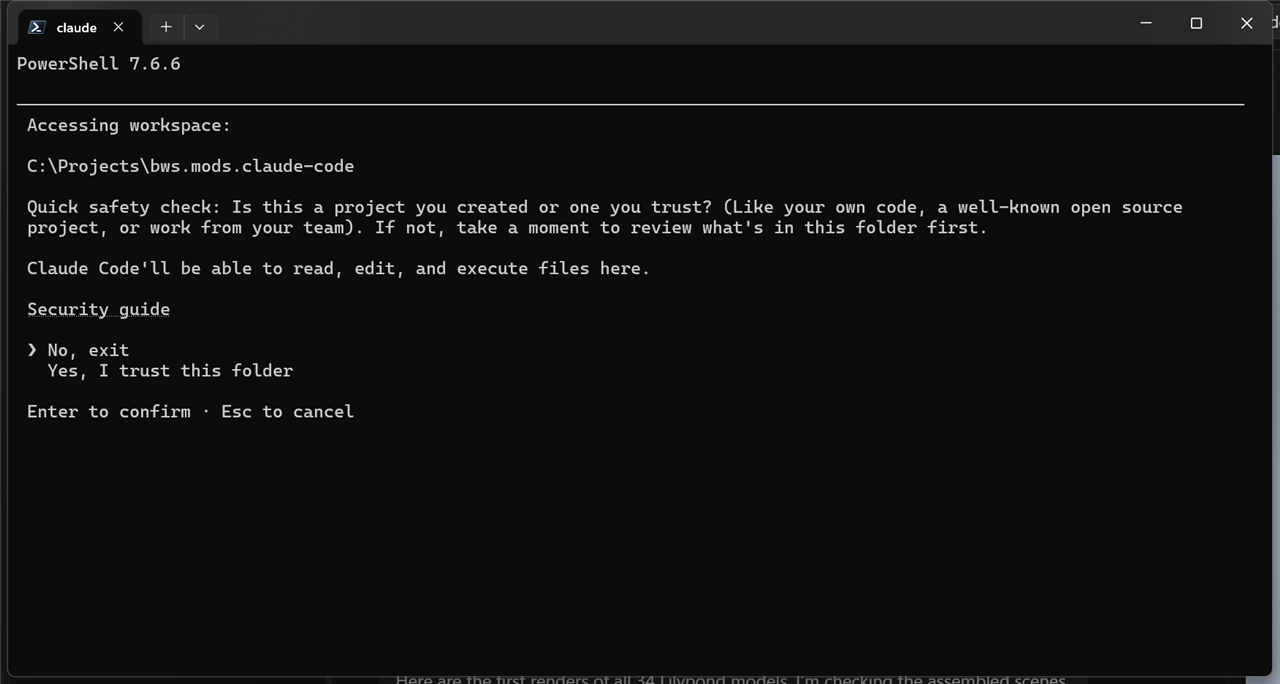
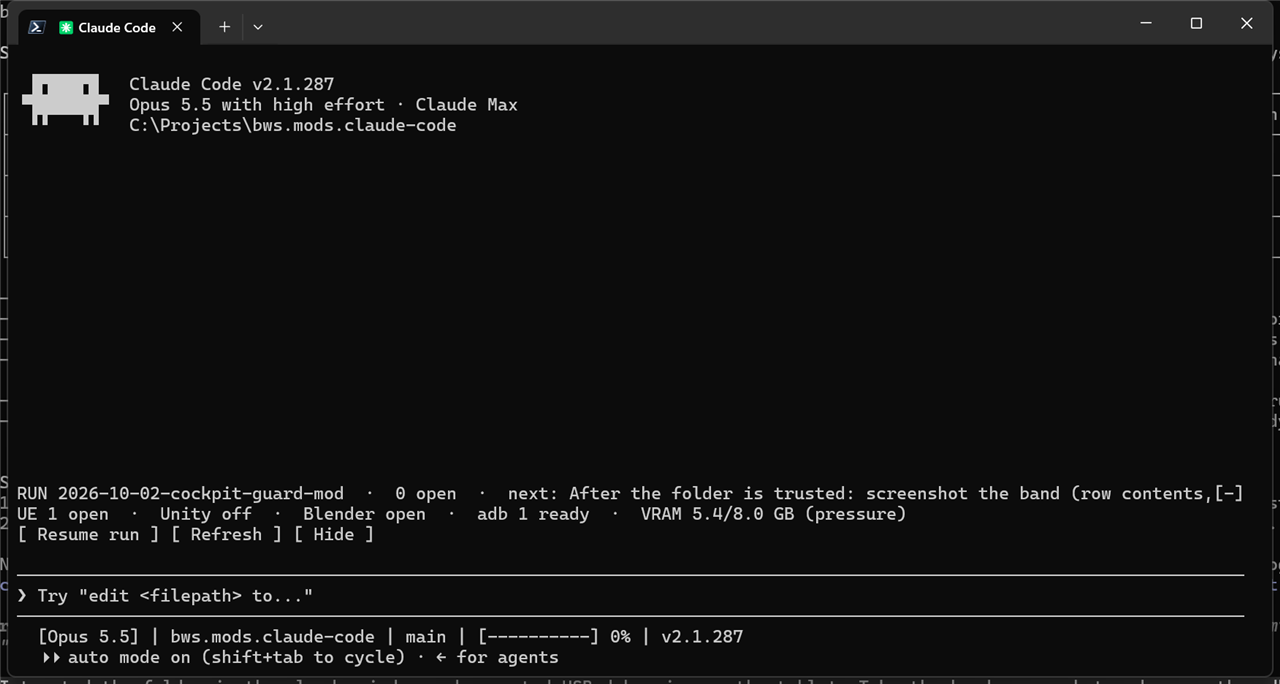
bws-cockpit: close finish line (band screenshot, adb pass-through)

diff --git a/runs/2026-10-02-cockpit-guard-mod/RUNLOG.md b/runs/2026-10-02-cockpit-guard-mod/RUNLOG.md
@@ -39,19 +39,22 @@ Build mods #1 and #2 from the usage review as one plugin, `bws-cockpit/`. The fi
 |---|---|---|
 | 1 | validate | ✅ `receipts/validate.txt` |
 | 2 | tests | ✅ 29/29, `receipts/test.txt`; tsc strict is clean; corpus replay `receipts/corpus-replay.md` |
-| 3 | band screenshot | ⏳ waiting on Brian to trust the folder in the "claude" window, then retake `receipts/band.png` |
+| 3 | band screenshot | ✅ `receipts/band.png`: live terminal session, run line, device row (UE 1 open, Blender open, adb 1 ready, VRAM 5.4/8.0 GB pressure), buttons |
 | 4 | live guard | ✅ blocks (adb, duplicate editor), rewrites (UE low-VRAM, Unity -automated), pass-throughs (echo, unreal-mcp with the editor up), `receipts/live-guard.txt` |
 | 5 | README | ✅ |
-| 6 | RUNLOG + commit | ✅ (this commit) |
+| 6 | RUNLOG + commit | ✅ |
 
-## Next
-- After the folder is trusted: screenshot the band (row contents, the buttons).
-- After the device is authorized: re-run the adb pass-through check.
-- Brian decides whether to load the mod in every session through `CLAUDE_CODE_PLUGIN_DIRS`.
-- Parked:
-  - re-injecting the cockpit block after compaction (no clean route seen yet)
-  - Loop Watch pane
-  - dev-server tracker
+## Close-out (2026-10-02)
+- Brian trusted the folder. The band rendered live (`receipts/band.png`).
+- Brian authorized the tablet. `adb shell echo hello-from-device` passed through the guard and returned the text (`receipts/live-guard.txt`, run 6).
+- **Every finish-line item is done.**
+
+## Follow-ups (parked, not part of this finish line)
+- Decide whether to load both mods in every session through `CLAUDE_CODE_PLUGIN_DIRS`, or a local marketplace.
+- Untested: a live unreal-mcp block with the port down, and the Desktop app.
+- Re-inject the cockpit block after compaction (no clean route yet).
+- Loop Watch pane and dev-server tracker (mods #5 and #7 of the review).
+- Before any push: review or shrink `bws-shell-lint/tests/corpus-fixture.ts` (512 KB of real commands).
 
 ## Interop with bws-shell-lint (mod #3, built by a subagent, commit 6bc8c9f)
 - Ran one headless session with both `--plugin-dir` flags (`receipts/live-both.txt`):

diff --git a/bws-cockpit/README.md b/bws-cockpit/README.md
@@ -88,11 +88,11 @@ Claude Code 2.1.287, Windows 11, Git Bash + PowerShell 7.6.
 | Type-check vs the 2.1.287 declarations (tsc 5.9, strict) | clean | n/a |
 | Corpus replay: classifiers over 8,277 real Bash/PowerShell commands from 30 days | Unity rewrites: 3, all real launches. UE GUI launches: 72, all real. Mentions in echo, Get-CimInstance filters, heredocs, comments and `$x = '...exe'` assignments are ignored | `receipts/corpus-replay.md` |
 | Live headless (`claude -p --plugin-dir`) | `echo` naming the exes passes untouched; a UE launch under GPU pressure gets the `-ini` overrides; a `Unity.exe -projectPath` launch gets `-automated` (both exes at nonexistent paths, so nothing started); adb blocked for an unauthorized device; a duplicate TMS editor blocked (pid 59468); `mcp__unreal-mcp__list_toolsets` passes against the live TMS editor on :3092 | `receipts/live-guard.txt` |
-| Interactive terminal band | see RUNLOG | `receipts/band.png` |
+| Interactive terminal band | drawn live with the run line, device row (UE, Unity, Blender, adb, VRAM with pressure) and buttons | `receipts/band.png` |
+| adb pass-through | with the tablet authorized, `adb shell echo` runs untouched | `receipts/live-guard.txt` (run 6) |
 
 Only commands where the tool is in command position trigger the guard. That is the first word of a segment, after `VAR=` prefixes, `timeout N`, `nohup`, `&`, `$x =` or `Start-Process -FilePath`. Anything quoted, commented, inside a heredoc or here-string, or mentioned by `echo` or `grep` is ignored.
 
 Untested:
 - the Desktop app
 - a live unreal-mcp block (port down)
-- adb pass-through with an authorized device
